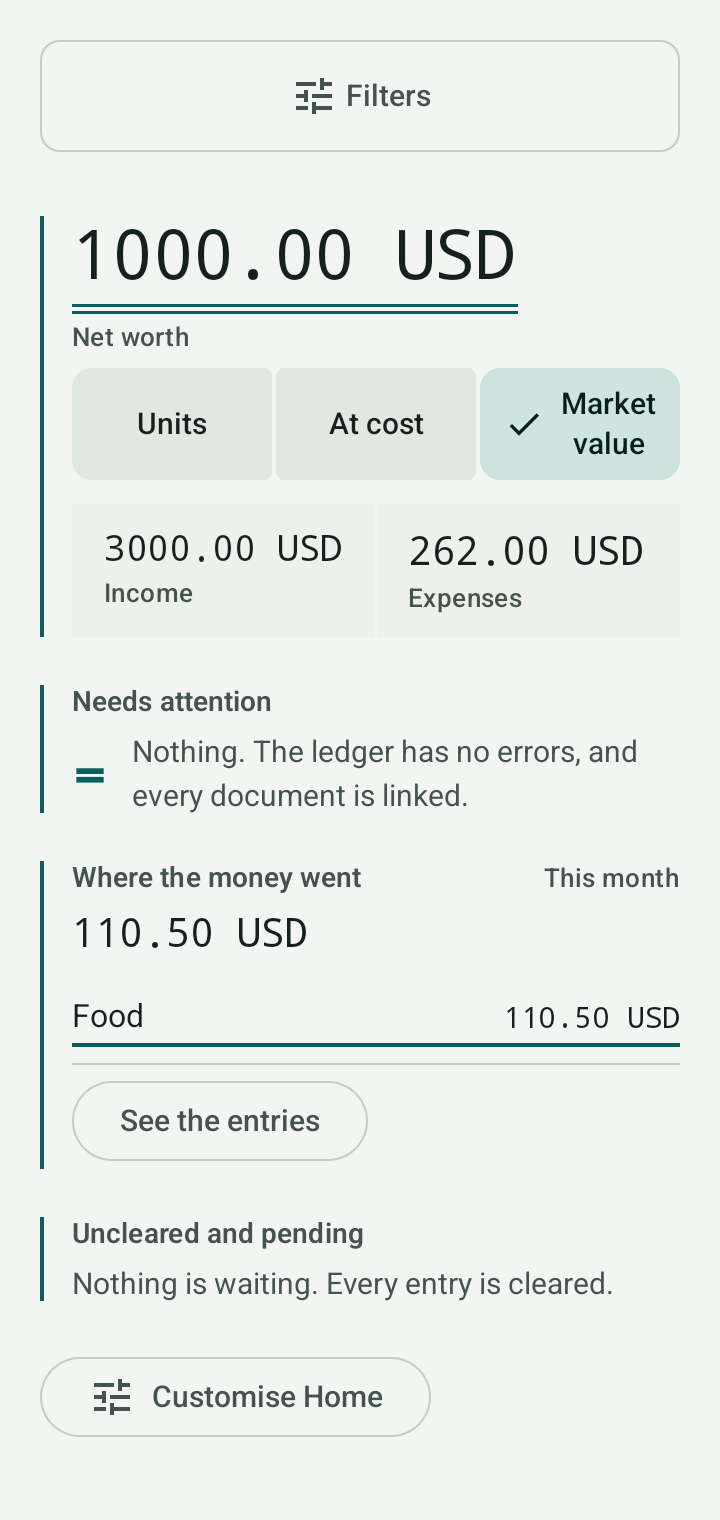
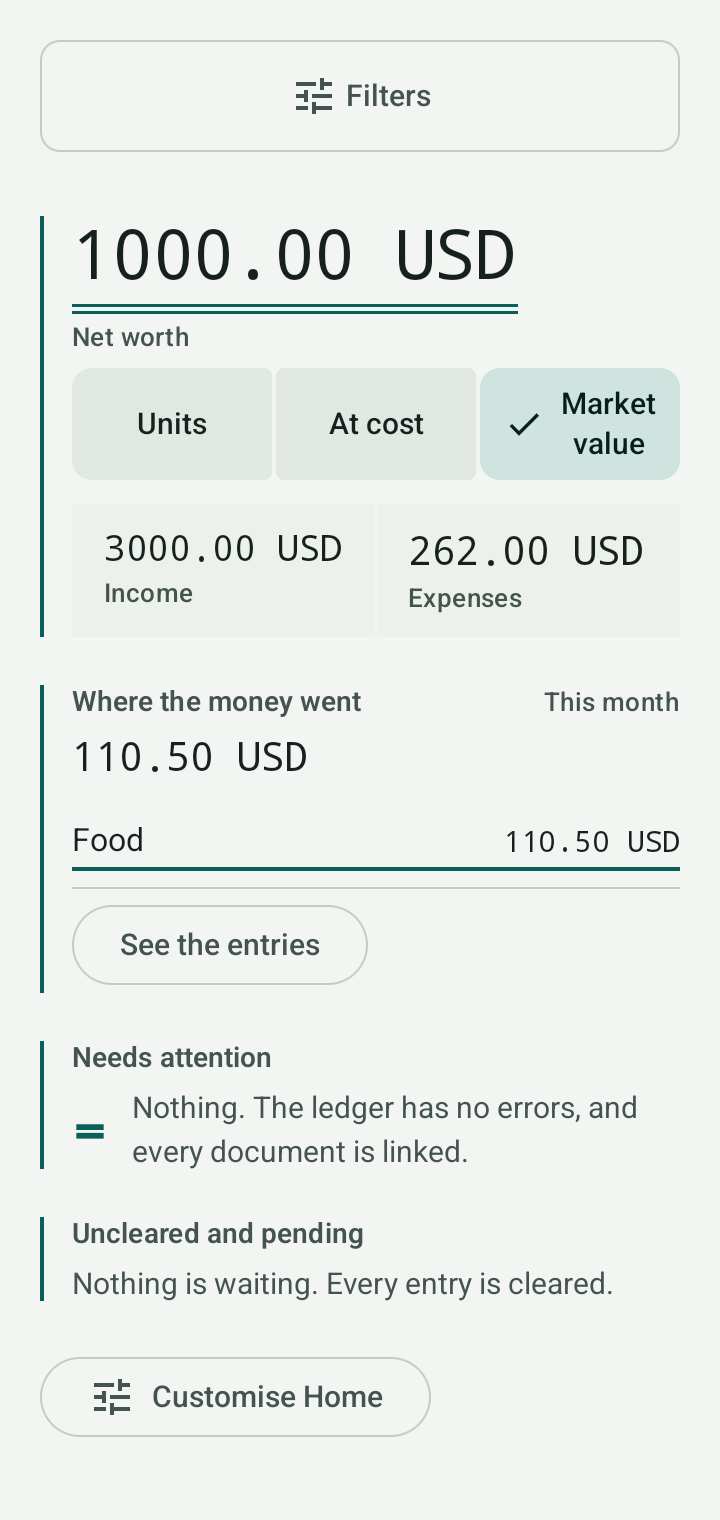
Screenshots: run the picture check on pull requests that change a screen (#458)
* Screenshots: run the picture check on pull requests that change a screen

* Screenshots: the Home picture uses the default cards, not the order an earlier test left

* Screenshots: redraw the Home pictures with the default cards

diff --git a/app/src/androidTest/kotlin/io/github/pintofi/beanbook/app/ui/ScreenshotTest.kt b/app/src/androidTest/kotlin/io/github/pintofi/beanbook/app/ui/ScreenshotTest.kt
@@ -112,7 +112,12 @@ class ScreenshotTest {
     @Test fun home() = shoot("home") {
         // The day is fixed: "this month" follows it, and the fixture ledger is October 2026, so on any
         // other day Home would show no spending and the picture would stop matching.
-        HomeScreen(ledger = ledger, hideAmounts = false, today = LocalDate.of(2026, 10, 25))
+        // The default cards, not whatever order an earlier test left in the Home settings file: the picture
+        // has to be the same when this test runs alone (the pull request check) as in the whole suite.
+        HomeScreen(
+            ledger = ledger, hideAmounts = false, today = LocalDate.of(2026, 10, 25),
+            layout = io.github.pintofi.beanbook.app.ui.HomePreferences.Layout(),
+        )
     }
 
     @Test fun journal() = shoot("journal") { JournalScreen(snapshot = ledger) }

diff --git a/CONTRIBUTING.md b/CONTRIBUTING.md
@@ -141,7 +141,9 @@ export ANDROID_SERIAL=<serial from adb devices>
 `ScreenshotTest` draws the main screens (Home, Journal, Balances, Documents, More, Add entry) in
 light and dark at normal and double text size and compares them with the pictures in
 `app/src/androidTest/assets/screenshots`. It only runs on API 36, where the pictures are drawn, and
-the weekly job reports a difference as a failure, not a block. After a change to how a screen
+the weekly job reports a difference as a failure, not a block. A pull request that changes screen code
+also runs it alone (`.github/workflows/screenshots.yml`), so a stale picture shows up on that pull request
+instead of the next Monday; that check is not required either. After a change to how a screen
 looks that you meant to make, start the weekly workflow by hand with "Draw the screenshots again"
 ticked, download the `screenshots` folder from the API 36 artifact into that assets folder, and
 commit it: the pictures change in the same pull request as the code, so a reviewer sees them.
